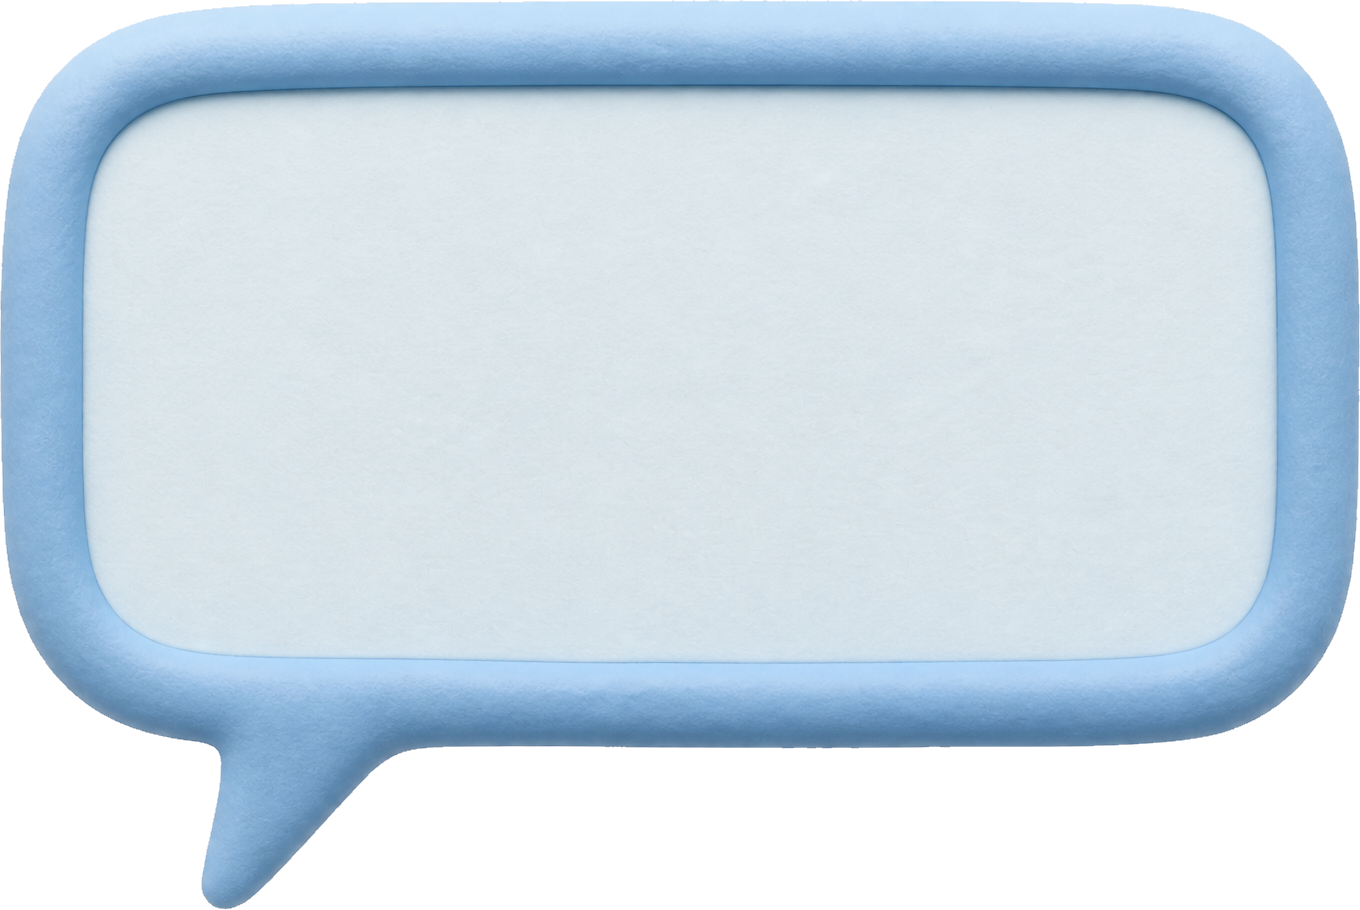
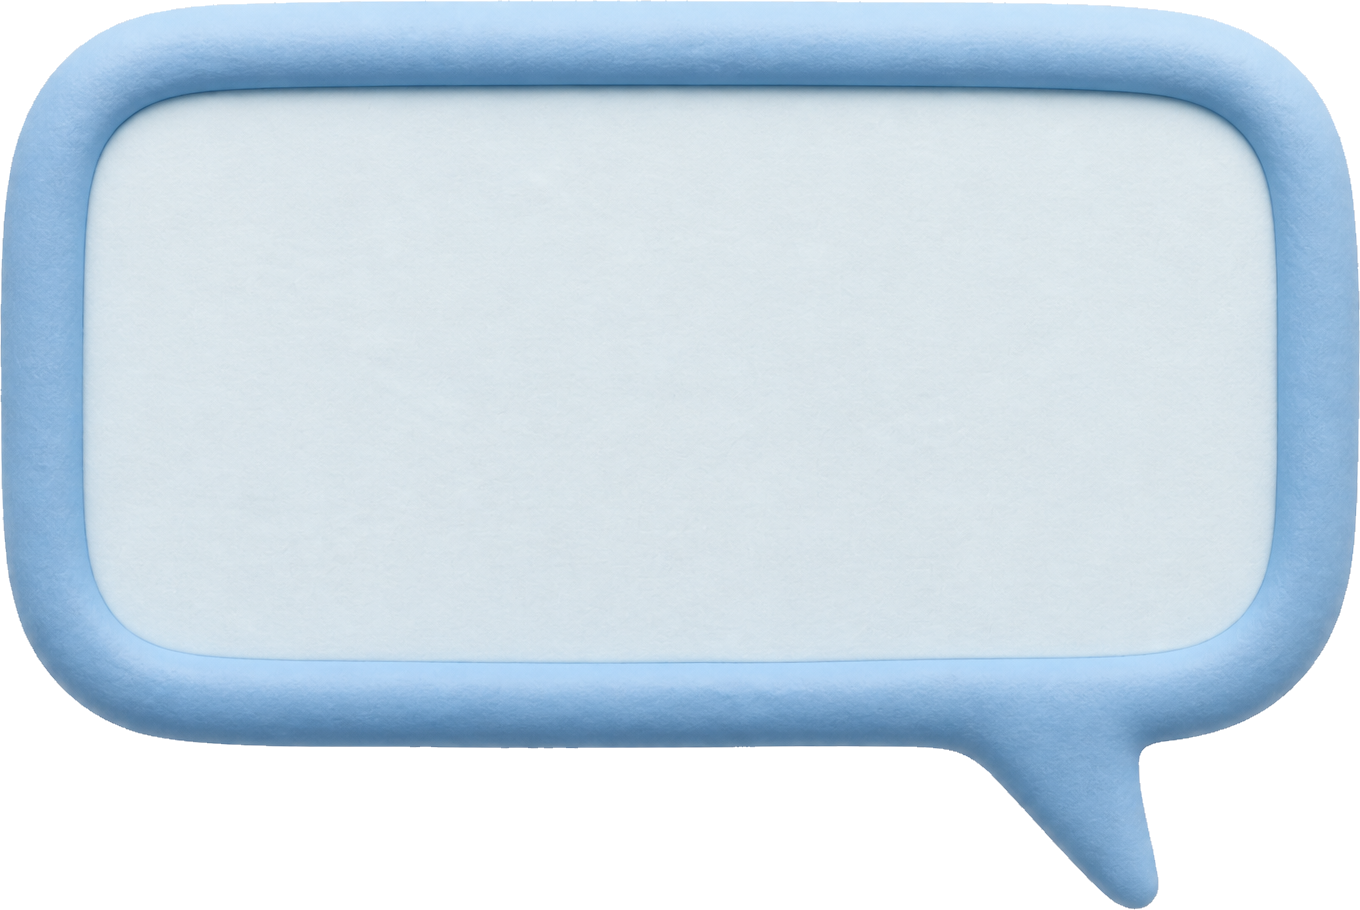
Point the doctor bubble tail at the cat.
The blue clay bubble had its tail on the left, aiming at the fox; flip it so the tail sits over the doctor.

diff --git a/components/meeting-scene.tsx b/components/meeting-scene.tsx
@@ -24,7 +24,7 @@ const BUBBLE_SLOT: Record<PersonaKey, string> = {
 const BUBBLE_ART: Record<PersonaKey, string> = {
   cfo: "/clay-bubble-cfo.png",
   mkt: "/clay-bubble-mkt.png",
-  md: "/clay-bubble-md.png",
+  md: "/clay-bubble-md.png?v=tail-r",
 };
 
 function ClayBubble({

diff --git a/app/globals.css b/app/globals.css
@@ -641,7 +641,7 @@ body {
 
 .bubble-md {
   top: 13.5%;
-  right: 4%;
+  right: 1.5%;
   left: auto;
 }
 

diff --git a/doc/scratchpad.md b/doc/scratchpad.md
@@ -82,6 +82,8 @@ Haiku R2 재시도 수정 후(`ba66843`): `cA_9I2` `4e4XEM` `NQSmdi` — 세 세
 
 2026-08-30 연도·말풍선(Executor): 바인더·타임라인 2024→2026. 말풍선은 `shouldShowPersonaBubble`이 항상 false라 토론 중에도 안 나옴. 토론 시작·발언이 있으면 02색 점토 말풍선 3개(민트/주황/파랑, 꼬리는 각 캐릭터). 이름표는 그대로 없음. HTTPS 사용자 확인 대기.
 
+2026-08-30 진료 말풍선 꼬리(Executor): 파란 말풍선 꼬리가 왼쪽(여우)을 가리킴. 이미지를 좌우 반전해 꼬리를 오른쪽 아래(고양이 진료원장)로.
+
 ## Lessons
 
 Supabase MCP는 service role 키를 반환하지 않는다. URL만 자동화 가능.

diff --git a/.cursor/scratchpad.md b/.cursor/scratchpad.md
@@ -82,6 +82,8 @@ Haiku R2 재시도 수정 후(`ba66843`): `cA_9I2` `4e4XEM` `NQSmdi` — 세 세
 
 2026-08-30 연도·말풍선(Executor): 바인더·타임라인 2024→2026. 말풍선은 `shouldShowPersonaBubble`이 항상 false라 토론 중에도 안 나옴. 토론 시작·발언이 있으면 02색 점토 말풍선 3개(민트/주황/파랑, 꼬리는 각 캐릭터). 이름표는 그대로 없음. HTTPS 사용자 확인 대기.
 
+2026-08-30 진료 말풍선 꼬리(Executor): 파란 말풍선 꼬리가 왼쪽(여우)을 가리킴. 이미지를 좌우 반전해 꼬리를 오른쪽 아래(고양이 진료원장)로.
+
 
 
 
